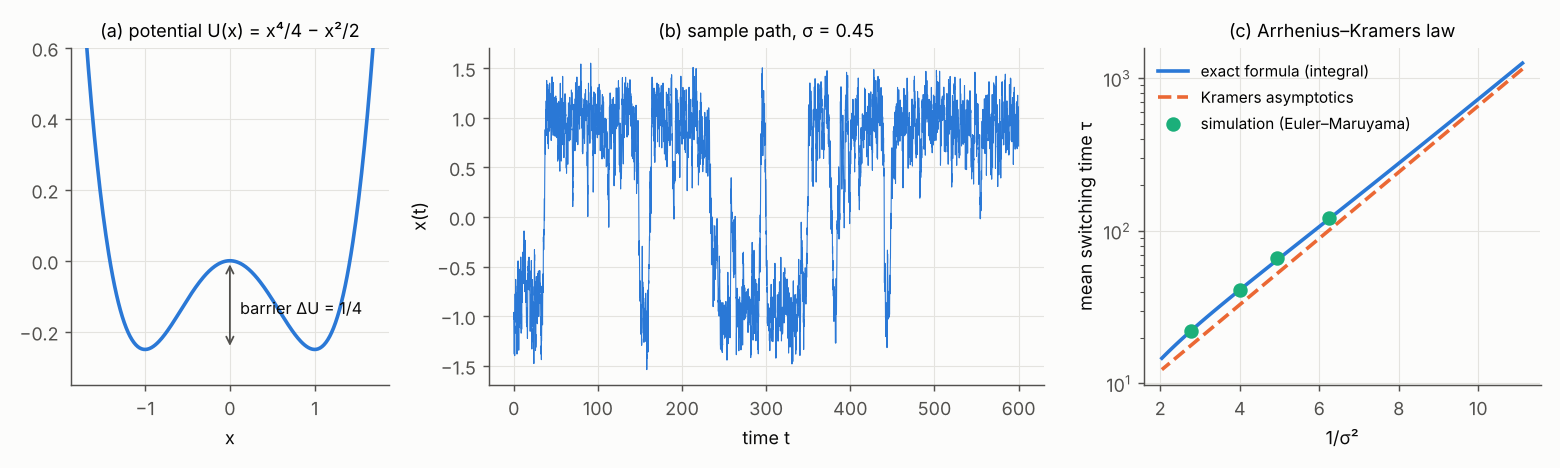
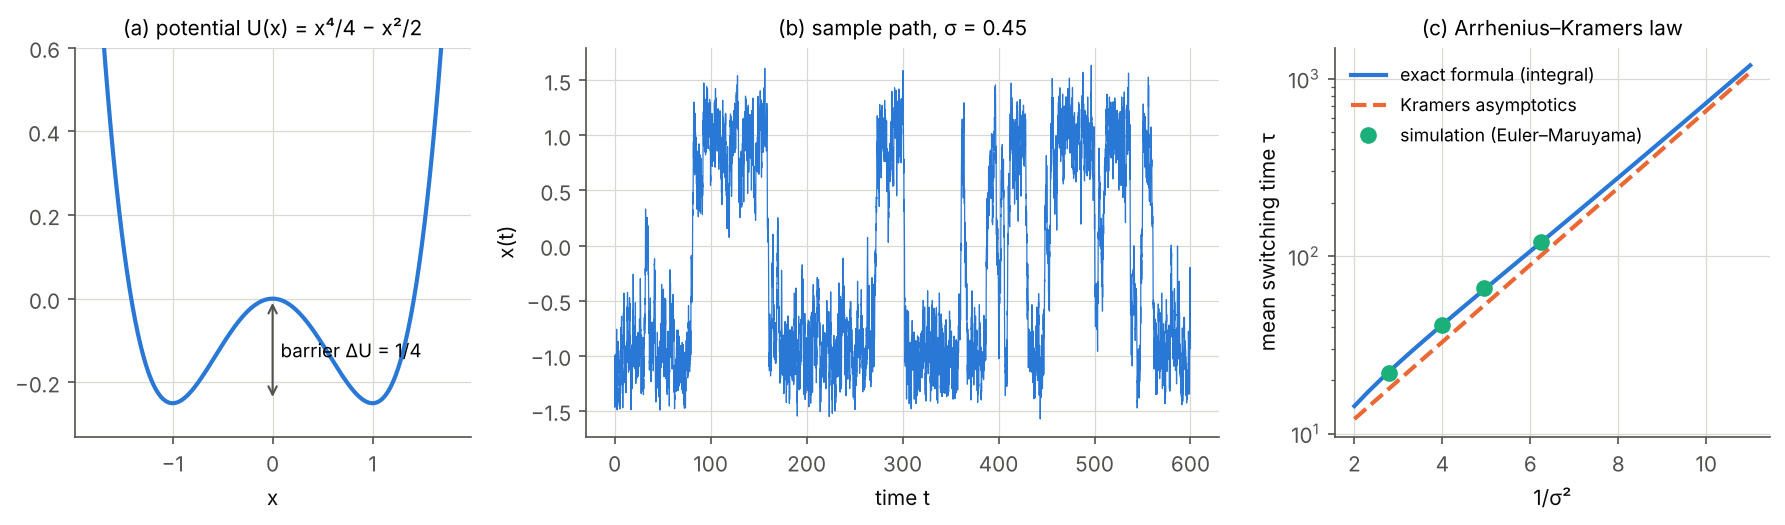
P4: figure script figures_p4.py, figures regenerated
Kramers times and Gissinger crossing rates reproduce the printed outputs of
the page exactly. Unused SVG copies removed; alt text of the Gissinger
figure adjusted to the new trajectory (a few reversals).

Claude-Session: https://claude.ai/code/session_019DLE2UupA8nNvHWE1xMPtD

diff --git a/site/prep/p4-dynamical-systems/figures_p4.py b/site/prep/p4-dynamical-systems/figures_p4.py
@@ -1,0 +1,248 @@
+"""Static figures of module p4 (dynamical systems, bifurcations, chaos, noise).
+
+Usage: python3 figures_p4.py [out_dir]     (default: the figures/ folder next to this script)
+Each figure reuses the code block of the page that precedes it; the numbers quoted in the captions
+are printed. Runs on CPU in about one minute.
+"""
+import sys
+from pathlib import Path
+
+import numpy as np
+from scipy.integrate import quad
+
+sys.path.insert(0, str(Path(__file__).resolve().parents[2] / "assets"))
+import figstyle as fs  # noqa: E402
+import matplotlib.pyplot as plt  # noqa: E402
+
+fs.use(10)
+HERE = Path(__file__).resolve().parent
+
+
+def rk4(f, x, dt):
+    k1 = f(x); k2 = f(x + 0.5 * dt * k1); k3 = f(x + 0.5 * dt * k2); k4 = f(x + dt * k3)
+    return x + dt / 6 * (k1 + 2 * k2 + 2 * k3 + k4)
+
+
+# ---------------------------------------------------------------------------------------------
+def fig_bifurcations(out):
+    fig, ax = plt.subplots(2, 2, figsize=(10, 7))
+
+    def branch(a, r, x, stable, **kw):
+        a.plot(r, x, color=fs.C1 if stable else fs.C2, ls="-" if stable else "--", **kw)
+
+    # (a) saddle-node x' = r + x^2: fixed points ±sqrt(-r), stable for x < 0
+    r = np.linspace(-1, 0, 400)
+    branch(ax[0, 0], r, -np.sqrt(-r), True, label="stable")
+    branch(ax[0, 0], r, np.sqrt(-r), False, label="unstable")
+    ax[0, 0].set_xlim(-1, 0.6); ax[0, 0].legend(loc="upper right")
+    ax[0, 0].set_title("(a) saddle-node: ẋ = r + x²")
+    # (b) supercritical pitchfork x' = rx - x^3
+    r1, r2 = np.linspace(-1, 0, 200), np.linspace(0, 1, 400)
+    branch(ax[0, 1], r1, 0 * r1, True); branch(ax[0, 1], r2, 0 * r2, False)
+    branch(ax[0, 1], r2, np.sqrt(r2), True); branch(ax[0, 1], r2, -np.sqrt(r2), True)
+    ax[0, 1].set_title("(b) supercritical pitchfork: ẋ = rx − x³")
+    # (c) subcritical pitchfork x' = rx + x^3 - x^5: x^2 = (1 ± sqrt(1 + 4r)) / 2
+    r = np.linspace(-0.25, 0.4, 600)
+    up = np.sqrt((1 + np.sqrt(1 + 4 * r)) / 2)
+    rm = np.linspace(-0.25, 0, 400)
+    lo = np.sqrt(np.clip((1 - np.sqrt(1 + 4 * rm)) / 2, 0, None))
+    a = ax[1, 0]
+    for s in (1, -1):
+        branch(a, r, s * up, True); branch(a, rm, s * lo, False)
+    branch(a, np.linspace(-0.5, 0, 100), np.zeros(100), True); branch(a, np.linspace(0, 0.4, 100), np.zeros(100), False)
+    arrow = dict(arrowstyle="->", color=fs.INK2, lw=1.4)
+    a.annotate("", xy=(0, 0.95), xytext=(0, 0.02), arrowprops=arrow)
+    a.annotate("", xy=(-0.25, 0.05), xytext=(-0.25, 0.68), arrowprops=arrow)
+    a.set_title("(c) subcritical pitchfork: ẋ = rx + x³ − x⁵")
+    # (d) imperfect pitchfork x' = h + rx - x^3, h = 0.05: roots and stability from f'(x) = r - 3x^2
+    h = 0.05
+    rs, xs, st = [], [], []
+    for rr in np.linspace(-1, 1, 1601):
+        for x in np.roots([-1, 0, rr, h]):
+            if abs(x.imag) < 1e-9:
+                rs.append(rr); xs.append(x.real); st.append(rr - 3 * x.real ** 2 < 0)
+    rs, xs, st = map(np.array, (rs, xs, st))
+    ax[1, 1].scatter(rs[st], xs[st], s=1.5, color=fs.C1, lw=0)
+    ax[1, 1].scatter(rs[~st], xs[~st], s=1.5, color=fs.C2, lw=0)
+    r_sn = 3 * (h / 2) ** (2 / 3)
+    print(f"bifurcations: imperfect pitchfork, saddle-node at r = 3 (h/2)^(2/3) = {r_sn:.3f}")
+    ax[1, 1].set_title(f"(d) imperfect pitchfork: ẋ = h + rx − x³ (h = {h})")
+    for a in ax.flat:
+        a.axhline(0, color=fs.INK2, lw=0.7); a.axvline(0, color=fs.INK2, lw=0.7)
+        a.set_xlabel("r"); a.set_ylabel("x*")
+    fig.tight_layout()
+    fs.save(fig, out / "bifurcations.png")
+
+
+# ---------------------------------------------------------------------------------------------
+def fig_lorenz(out):
+    s, r, b = 10.0, 28.0, 8.0 / 3.0
+
+    def F(x):
+        return np.array([s * (x[1] - x[0]), x[0] * (r - x[2]) - x[1], x[0] * x[1] - b * x[2]])
+
+    dt = 0.01
+    x = np.array([1.0, 1.0, 1.0])
+    for _ in range(2000):                                   # transient, as in the page
+        x = rk4(F, x, dt)
+    traj = [x]
+    for _ in range(5000):
+        traj.append(rk4(F, traj[-1], dt))
+    traj = np.array(traj)
+    # two trajectories separated by 1e-8 along x, no renormalization
+    xa, xb = x.copy(), x + np.array([1e-8, 0.0, 0.0])
+    ts, ds = [0.0], [1e-8]
+    for k in range(4000):
+        xa, xb = rk4(F, xa, dt), rk4(F, xb, dt)
+        ts.append((k + 1) * dt); ds.append(np.linalg.norm(xb - xa))
+    ts, ds = np.array(ts), np.array(ds)
+    lam1 = 0.90                                             # page: lambda_1 ≈ 0.90 (Benettin and QR)
+    fig, ax = plt.subplots(1, 2, figsize=(10, 3.8))
+    ax[0].plot(traj[:, 0], traj[:, 2], color=fs.C1, lw=0.6)
+    ax[0].set_xlabel("x"); ax[0].set_ylabel("z"); ax[0].set_title("(a) Lorenz attractor (x–z projection)")
+    ax[1].semilogy(ts, ds, color=fs.C1, lw=1.3)
+    tt = np.linspace(0, 27, 50)
+    ax[1].semilogy(tt, 1e-8 * np.exp(lam1 * tt), "--", color=fs.C2, lw=1.8, label=f"slope λ₁ = {lam1:.2f}")
+    ax[1].set_ylim(3e-9, 1e2); ax[1].legend(loc="lower right")
+    ax[1].set_xlabel("time t"); ax[1].set_ylabel("|δx(t)| (log scale)")
+    ax[1].set_title("(b) distance between two trajectories (initial distance 10⁻⁸)")
+    sat = ts[np.argmax(ds > 1.0)]
+    print(f"lorenz: separation reaches 1 at t = {sat:.1f}, max {ds.max():.1f}")
+    fig.tight_layout()
+    fs.save(fig, out / "lorenz.png")
+
+
+# ---------------------------------------------------------------------------------------------
+def fig_kramers(out):
+    rng = np.random.default_rng(1)
+    U = lambda x: x ** 4 / 4 - x ** 2 / 2  # noqa: E731
+    dU = 0.25
+
+    def tau_exact(s):
+        inner = lambda y: quad(lambda z: np.exp(-2 * U(z) / s ** 2), -np.inf, y)[0]  # noqa: E731
+        return 2 / s ** 2 * quad(lambda y: np.exp(2 * U(y) / s ** 2) * inner(y), -1, 1)[0]
+
+    def tau_kramers(s):
+        return 2 * np.pi / np.sqrt(2.0) * np.exp(2 * dU / s ** 2)
+
+    # simulation of the page (Euler–Maruyama, 250 particles per level, T = 800)
+    levels = np.array([0.40, 0.45, 0.50, 0.60])
+    sig = np.repeat(levels, 250)
+    dt, T = 0.01, 800.0
+    x = -np.ones(sig.size); well = -np.ones(sig.size); nb = np.zeros(sig.size)
+    for _ in range(int(T / dt)):
+        x += -(x ** 3 - x) * dt + sig * np.sqrt(dt) * rng.standard_normal(sig.size)
+        flip = ((well < 0) & (x > 1)) | ((well > 0) & (x < -1))
+        well[flip] *= -1; nb[flip] += 1
+    tau_sim = np.array([250 * T / nb[sig == s].sum() for s in levels])
+    for s, t in zip(levels, tau_sim):
+        print(f"kramers: sigma = {s:.2f}  tau sim = {t:.1f}  exact = {tau_exact(s):.1f}  Kramers = {tau_kramers(s):.1f}")
+    # one path at sigma = 0.45
+    rng2 = np.random.default_rng(7)
+    n = int(600 / dt)
+    path = np.empty(n); y = -1.0
+    noise = rng2.standard_normal(n)
+    for k in range(n):
+        y += -(y ** 3 - y) * dt + 0.45 * np.sqrt(dt) * noise[k]
+        path[k] = y
+    fig, ax = plt.subplots(1, 3, figsize=(12, 3.6), gridspec_kw={"width_ratios": [1, 1.6, 1.1]})
+    xx = np.linspace(-1.8, 1.8, 400)
+    ax[0].plot(xx, U(xx), color=fs.C1)
+    ax[0].annotate("", xy=(0, -0.245), xytext=(0, 0.0), arrowprops=dict(arrowstyle="<->", color=fs.INK2))
+    ax[0].text(0.08, -0.14, "barrier ΔU = 1/4", fontsize=9)
+    ax[0].set_ylim(-0.33, 0.6); ax[0].set_xlabel("x"); ax[0].set_title("(a) potential U(x) = x⁴/4 − x²/2")
+    ax[1].plot(np.arange(n)[::5] * dt, path[::5], color=fs.C1, lw=0.6)
+    ax[1].set_xlabel("time t"); ax[1].set_ylabel("x(t)"); ax[1].set_title("(b) sample path, σ = 0.45")
+    s_grid = 1 / np.sqrt(np.linspace(2, 11, 30))
+    inv = 1 / s_grid ** 2
+    ax[2].semilogy(inv, [tau_exact(s) for s in s_grid], color=fs.C1, label="exact formula (integral)")
+    ax[2].semilogy(inv, tau_kramers(s_grid), "--", color=fs.C2, label="Kramers asymptotics")
+    ax[2].semilogy(1 / levels ** 2, tau_sim, "o", color=fs.C3, ms=7, label="simulation (Euler–Maruyama)")
+    ax[2].set_xlabel("1/σ²"); ax[2].set_ylabel("mean switching time τ"); ax[2].legend(fontsize=8.5, loc="upper left")
+    ax[2].set_title("(c) Arrhenius–Kramers law")
+    fig.tight_layout()
+    fs.save(fig, out / "kramers.png")
+
+
+# ---------------------------------------------------------------------------------------------
+MU, NU = 0.119, 0.1
+
+
+def gissinger_rhs(Y, g):
+    q, d, v = Y
+    return np.array([MU * q - v * d, -NU * d + v * q, g - v + q * d])
+
+
+def gissinger_run(g, Y, dt, n, every=None):
+    """RK4 with step dt for n steps; returns the final state and, if ``every``, the stored states."""
+    f = lambda Z: gissinger_rhs(Z, g)  # noqa: E731
+    keep = []
+    for k in range(n):
+        Y = rk4(f, Y, dt)
+        if every and k % every == 0:
+            keep.append(Y)
+    return Y, (np.array(keep) if every else None)
+
+
+def fig_gissinger(out):
+    dt = 0.02
+    # (e): the sweep of the page (30 trajectories per Gamma, transient 600, duration 1500)
+    rng = np.random.default_rng(3)
+    gammas = np.array([0.84, 0.85, 0.86, 0.865, 0.87, 0.88, 0.90, 0.95])
+    g = np.repeat(gammas, 30)
+    Y = rng.normal(size=(3, g.size)) * 0.8; Y[2] = np.abs(Y[2])
+    Y, _ = gissinger_run(g, Y, dt, int(600 / dt))
+    crossings = np.zeros(g.size)
+    for _ in range(int(1500 / dt)):
+        s0 = np.sign(Y[1])
+        Y = rk4(lambda Z: gissinger_rhs(Z, g), Y, dt)
+        crossings += np.sign(Y[1]) != s0
+    rate = np.array([crossings[g == G].sum() / (30 * 1500) for G in gammas])
+    print("gissinger: rate of zero crossings per Gamma:", ", ".join(f"{G}: {r:.5f}" for G, r in zip(gammas, rate)))
+    # (a)-(d): single trajectories after a transient of 600
+    rng = np.random.default_rng(4)
+    starts = {}
+    for G in (0.84, 0.86, 0.90):
+        y0 = np.abs(rng.normal(size=3)) * 0.8
+        y0, _ = gissinger_run(G, y0, dt, int(600 / dt))
+        starts[G] = y0
+    S = np.array([-1.0, -1.0, 1.0])                         # symmetry (Q, D, V) -> (-Q, -D, V)
+    every = 10
+    _, a86 = gissinger_run(0.86, starts[0.86], dt, int(1500 / dt), every)
+    _, b86 = gissinger_run(0.86, starts[0.86] * S, dt, int(1500 / dt), every)
+    _, a90 = gissinger_run(0.90, starts[0.90], dt, int(1500 / dt), every)
+    _, c84 = gissinger_run(0.84, starts[0.84], dt, int(1500 / dt), every)
+    _, d90 = gissinger_run(0.90, starts[0.90], dt, int(4000 / dt), every)
+    t = np.arange(len(a86)) * dt * every
+    fig = plt.figure(figsize=(12, 6.6))
+    gs = fig.add_gridspec(2, 3)
+    ax_a, ax_b = fig.add_subplot(gs[0, 0]), fig.add_subplot(gs[1, 0])
+    ax_c, ax_d = fig.add_subplot(gs[0, 1]), fig.add_subplot(gs[0, 2])
+    ax_e = fig.add_subplot(gs[1, 1:])
+    hi, lo = (a86, b86) if a86[:, 1].mean() > 0 else (b86, a86)
+    ax_a.plot(t, hi[:, 1], color=fs.C2, lw=0.8); ax_a.plot(t, lo[:, 1], color=fs.C1, lw=0.8)
+    ax_a.set_title("(a) D(t) for Γ = 0.86: no reversal")
+    ax_b.plot(t, a90[:, 1], color=fs.C1, lw=0.8); ax_b.set_title("(b) D(t) for Γ = 0.90: chaotic reversals")
+    for a in (ax_a, ax_b):
+        a.set_ylim(-3.3, 3.3); a.set_xlabel("time t"); a.set_ylabel("D")
+    side = c84 if c84[:, 1].mean() < 0 else c84 * S
+    ax_c.scatter(side[:, 0], side[:, 1], s=0.6, color=fs.C1, lw=0, label="attractor D < 0")
+    ax_c.scatter(-side[:, 0], -side[:, 1], s=0.6, color=fs.C2, lw=0, label="attractor D > 0 (image under S)")
+    ax_c.legend(loc="upper right", fontsize=8, markerscale=8)
+    ax_c.set_title("(c) Γ = 0.84: two symmetric attractors")
+    ax_d.scatter(d90[:, 0], d90[:, 1], s=0.6, color=fs.C1, lw=0)
+    ax_d.set_title("(d) Γ = 0.90: merged attractors")
+    for a in (ax_c, ax_d):
+        a.set_xlim(-3, 3); a.set_ylim(-3.3, 3.3); a.set_xlabel("Q"); a.set_ylabel("D")
+    ax_e.axvspan(0.86, 0.865, color=fs.C2, alpha=0.25, lw=0)
+    ax_e.plot(gammas, rate, "o-", color=fs.C1, ms=7)
+    ax_e.text(0.841, rate.max() * 0.72, "observed threshold\nbetween 0.86 and 0.865", fontsize=9)
+    ax_e.set_xlabel("Γ"); ax_e.set_ylabel("crossings per unit time"); ax_e.set_title("(e) rate of zero crossings of D")
+    fig.tight_layout()
+    fs.save(fig, out / "gissinger.png")
+
+
+if __name__ == "__main__":
+    out = fs.out_dir(str(HERE / "figures" / "x"), sys.argv)
+    for fn in (fig_bifurcations, fig_lorenz, fig_kramers, fig_gissinger):
+        fn(out)
